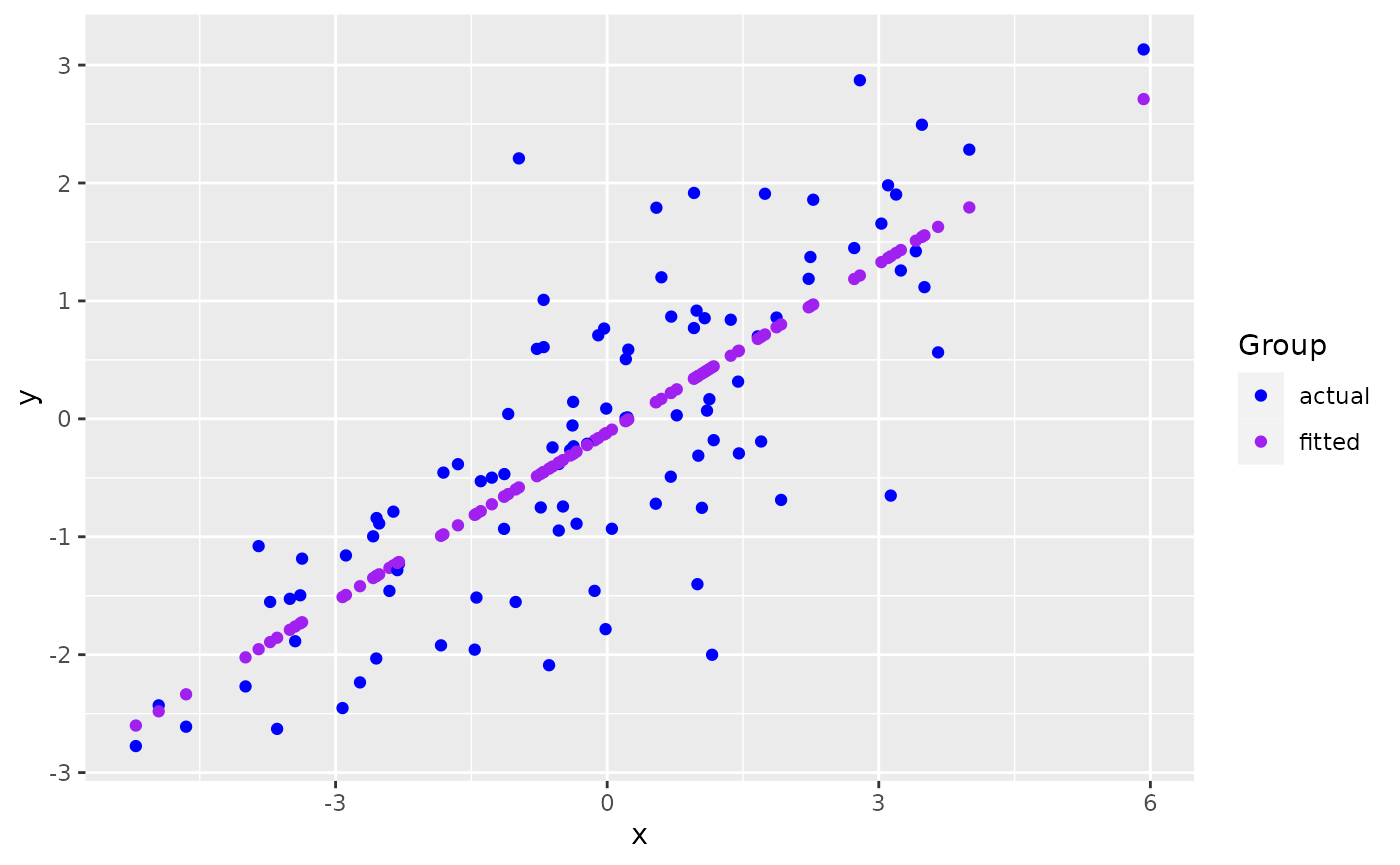
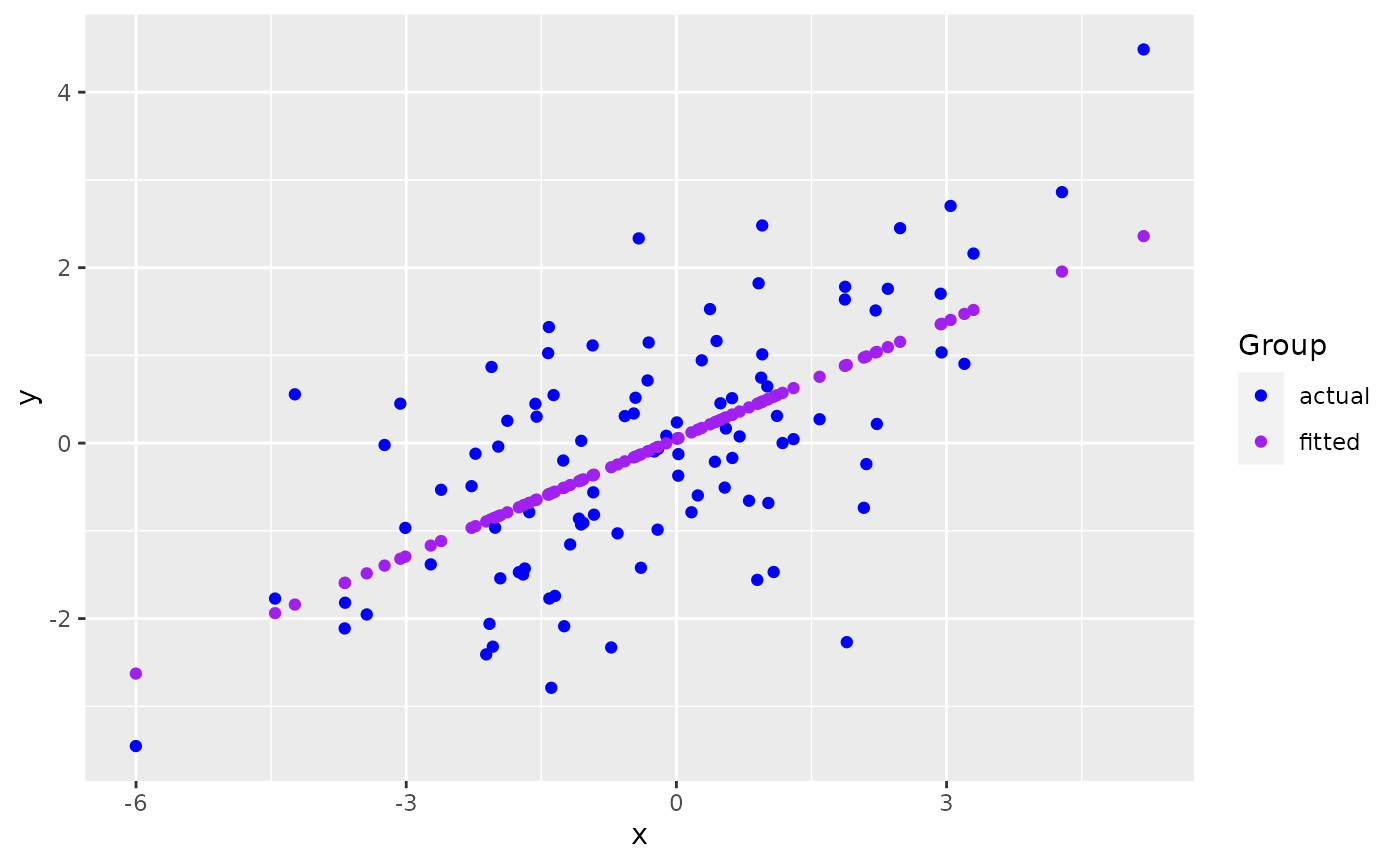
Built site for ggmatplot: 0.1.1@c380e48

diff --git a/articles/ggmatplot.html b/articles/ggmatplot.html
@@ -103,7 +103,7 @@
 <span class="va">x</span> <span class="op">&lt;-</span> <span class="fu"><a href="https://rdrr.io/r/base/c.html" class="external-link">c</a></span><span class="op">(</span><span class="fu"><a href="https://rdrr.io/r/stats/Normal.html" class="external-link">rnorm</a></span><span class="op">(</span><span class="fl">100</span>, sd <span class="op">=</span> <span class="fl">2</span><span class="op">)</span><span class="op">)</span>
 
 <span class="fu"><a href="https://rdrr.io/r/utils/head.html" class="external-link">head</a></span><span class="op">(</span><span class="va">x</span><span class="op">)</span>
-<span class="co">#&gt; [1] -0.5339503  0.5436352 -2.3612383  1.6637855 -0.3758816 -1.0928964</span>
+<span class="co">#&gt; [1] -1.4108175  5.1878637 -0.4542396  2.2120101  2.9337571 -0.9302005</span>
 
 <span class="co"># matrix z</span>
 <span class="va">y</span> <span class="op">&lt;-</span> <span class="va">x</span> <span class="op">*</span> <span class="fl">0.5</span> <span class="op">+</span> <span class="fu"><a href="https://rdrr.io/r/stats/Normal.html" class="external-link">rnorm</a></span><span class="op">(</span><span class="fl">100</span>, sd <span class="op">=</span> <span class="fl">1</span><span class="op">)</span>
@@ -112,13 +112,13 @@
            fitted <span class="op">=</span> <span class="va">fit.y</span><span class="op">)</span>
 
 <span class="fu"><a href="https://rdrr.io/r/utils/head.html" class="external-link">head</a></span><span class="op">(</span><span class="va">z</span><span class="op">)</span>
-<span class="co">#&gt;        actual     fitted</span>
-<span class="co">#&gt; 1 -0.38284831 -0.3712490</span>
-<span class="co">#&gt; 2  1.79025461  0.1430275</span>
-<span class="co">#&gt; 3 -0.78715345 -1.2433203</span>
-<span class="co">#&gt; 4  0.69931314  0.6776181</span>
-<span class="co">#&gt; 5  0.14399260 -0.2958109</span>
-<span class="co">#&gt; 6  0.04121993 -0.6380055</span></code></pre></div>
+<span class="co">#&gt;      actual     fitted</span>
+<span class="co">#&gt; 1 -1.771506 -0.5809966</span>
+<span class="co">#&gt; 2  4.487240  2.3593966</span>
+<span class="co">#&gt; 3  0.517048 -0.1547425</span>
+<span class="co">#&gt; 4  1.511918  1.0333468</span>
+<span class="co">#&gt; 5  1.702913  1.3549595</span>
+<span class="co">#&gt; 6  1.113527 -0.3668322</span></code></pre></div>
 <p><code>ggmatplot</code> plots vector <code>x</code> against each column of matrix <code>z</code> using the default <code>plot_type = "point"</code>. This will be represented on the resulting plot as two groups, identified using different shapes and colors.</p>
 <div class="sourceCode" id="cb2"><pre class="downlit sourceCode r">
 <code class="sourceCode R"><span class="kw"><a href="https://rdrr.io/r/base/library.html" class="external-link">library</a></span><span class="op">(</span><span class="va"><a href="https://github.com/xuan-liang/ggmatplot" class="external-link">ggmatplot</a></span><span class="op">)</span>
